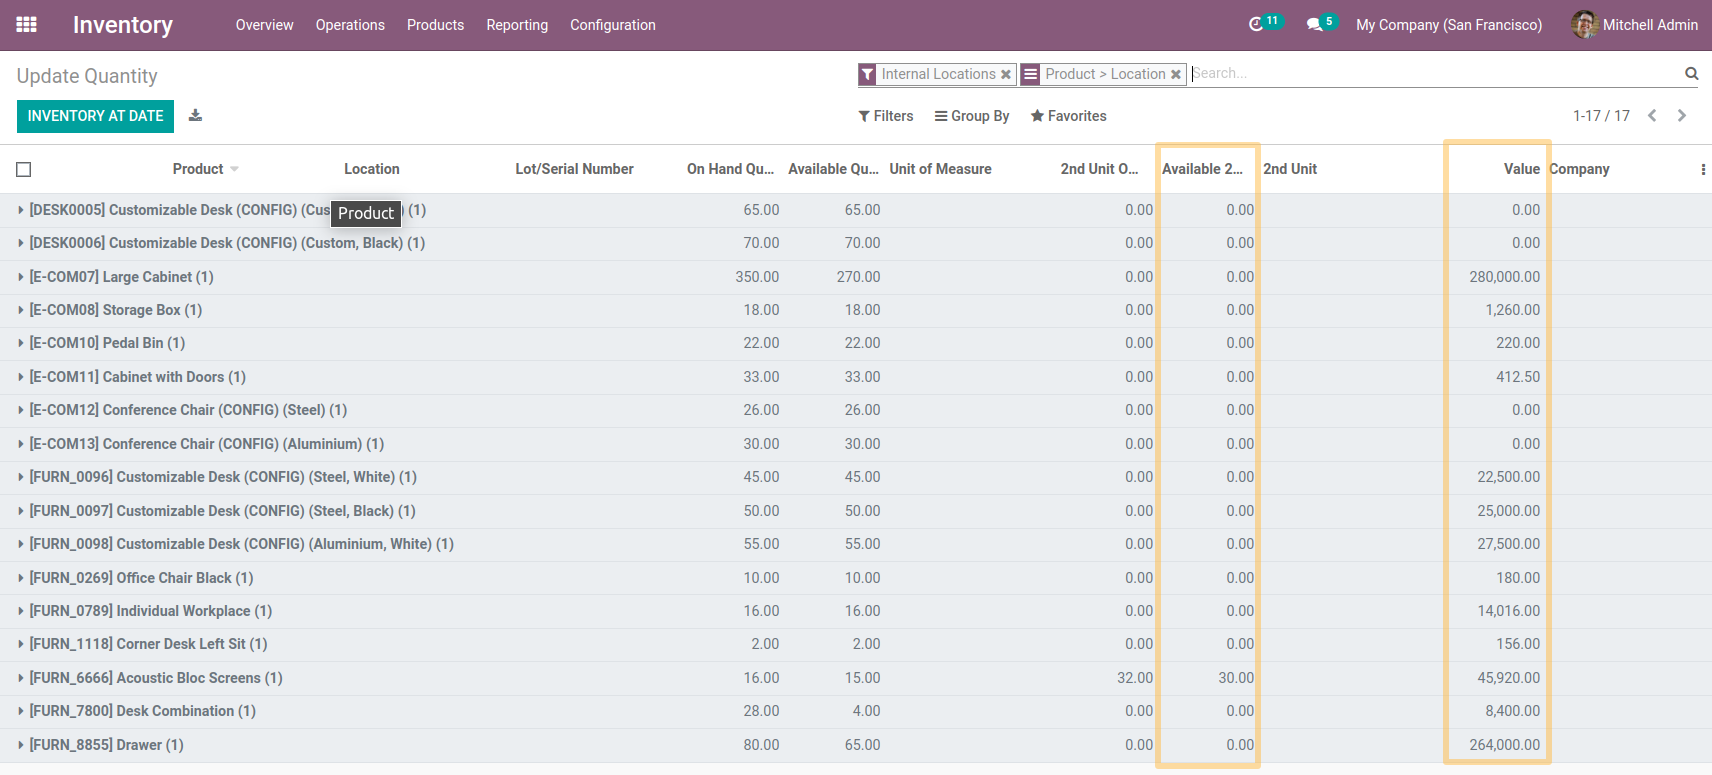
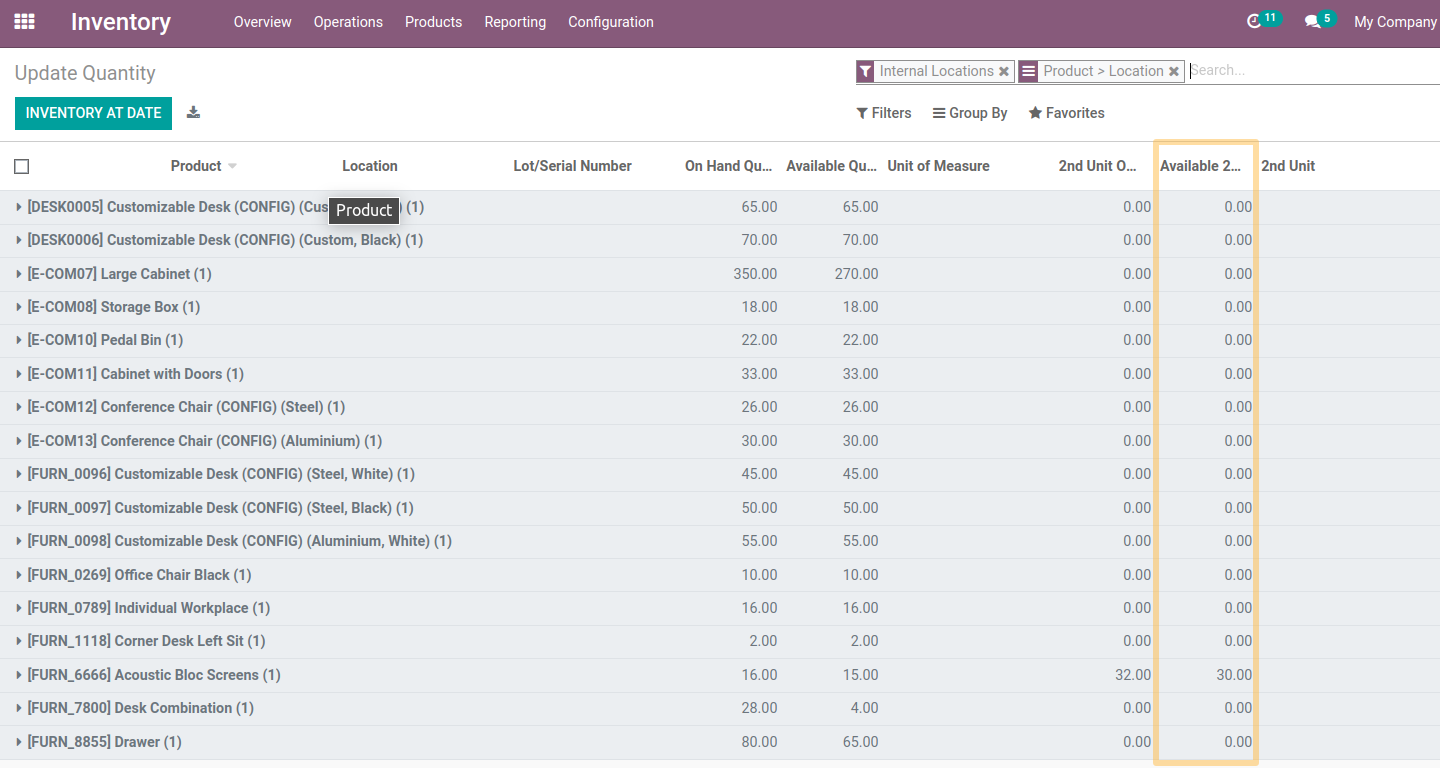
TA#58439 [CHG][REM] stock_quant_secondary_unit : removing feature

diff --git a/stock_quant_secondary_unit/__manifest__.py b/stock_quant_secondary_unit/__manifest__.py
@@ -3,13 +3,13 @@
 
 {
     "name": "Stock Quant Secondary Unit",
-    "version": "1.0.3",
+    "version": "1.0.4",
     "author": "Numigi",
     "maintainer": "Numigi",
     "website": "https://bit.ly/numigi-com",
     "license": "AGPL-3",
     "category": "Stock",
-    "depends": ["stock_account", "stock_secondary_unit"],
+    "depends": ["stock_secondary_unit"],
     "summary": "Add 2nd unit and 2nd Unit On Hand Qty on some stock quant views.",
     "data": [
         "views/stock_quant.xml",

diff --git a/stock_quant_secondary_unit/README.rst b/stock_quant_secondary_unit/README.rst
@@ -27,10 +27,6 @@ As an Inventory user, I go to the form view of an item/variant and click on eith
 
 .. image:: static/description/available_2nd_unit_on_stock_quant.png
 
-* I also see that the "Value" field is now after the "2nd unit" field.
-
-.. image:: static/description/value_moved_on_stock_quant.png
-
 * When I click on the 3 small dots, I see that I can choose whether or not to display all the fields available in the view.
 
 .. image:: static/description/optional_show_stock_quant.png
@@ -38,7 +34,6 @@ As an Inventory user, I go to the form view of an item/variant and click on eith
 As a member of the `Inventory / Administrator` group, I go to `Inventory > Reporting > Inventory Report`.
 
 * I notice that a new column `Available 2nd Unit`  is present, between the `2nd Unit On Hand Qty` field and the `2nd unit`  field.
-I also see that the `Value` field is now after the `2nd unit` field.
 
 .. image:: static/description/inventory_report_available_2nd_unit.png
 
